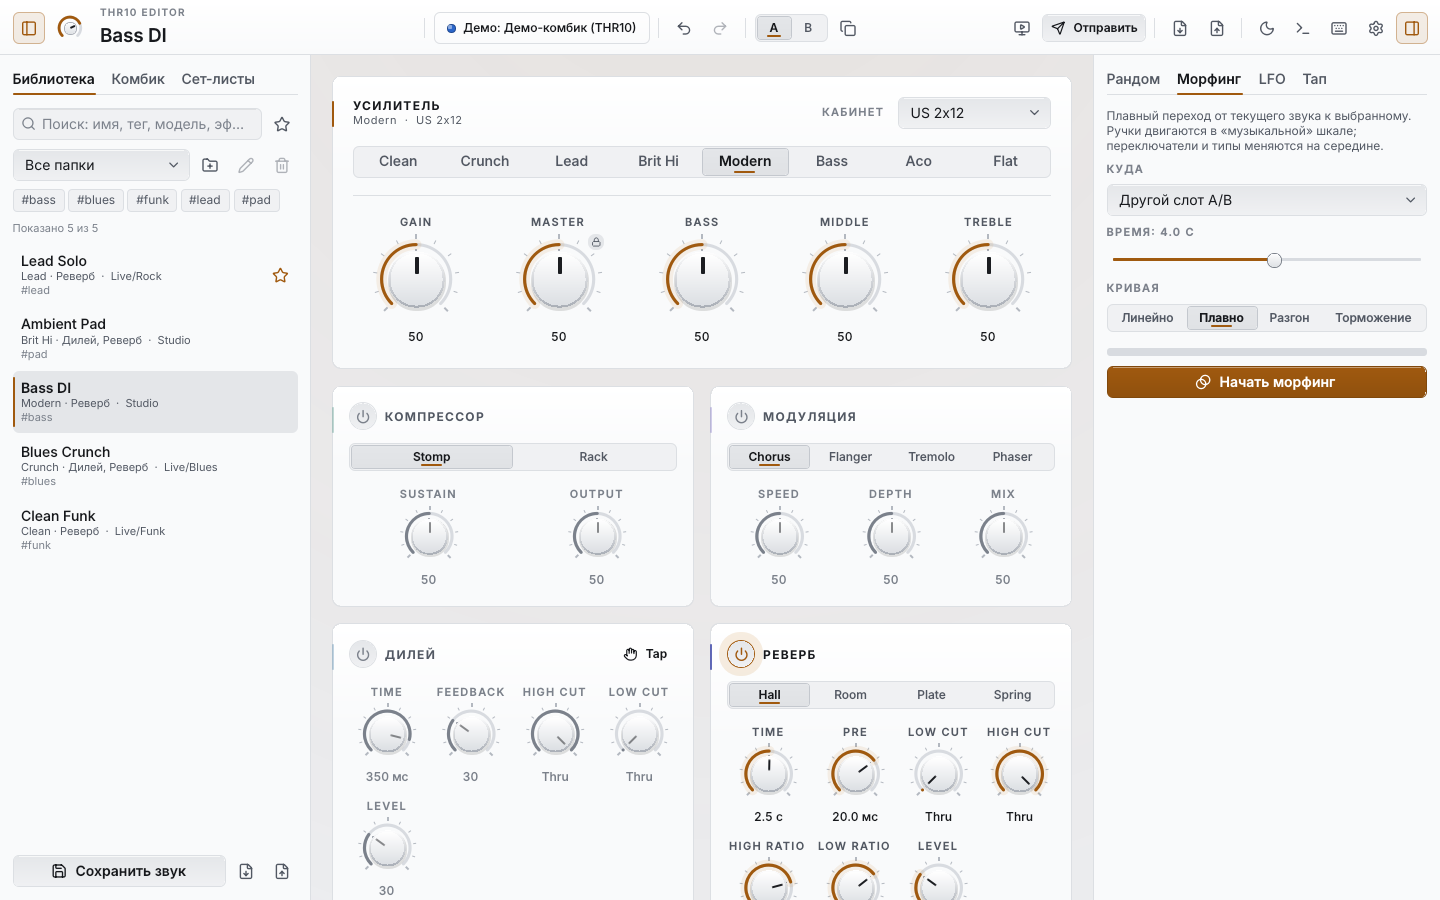
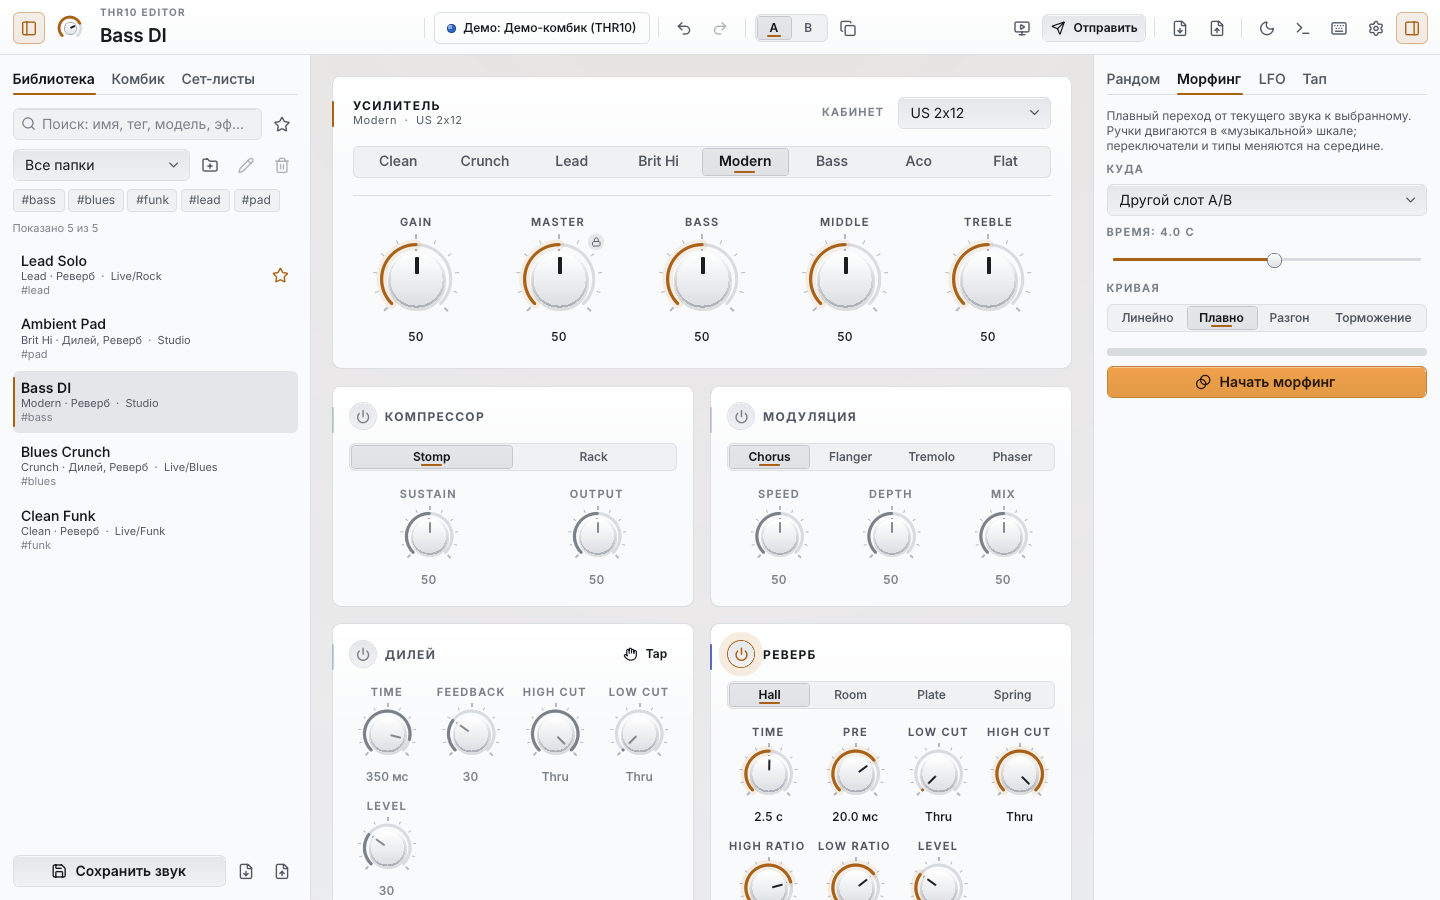
Светлая тема: мягче оранжевые кнопки через токены accentFill (версия 1.2.0)
- Токены accentFill/accentFillHover/accentFillText для залитых кнопок и
  переключателей; светлая заливка #F0A24A с тёмным текстом (8,1:1).
- Акцент для текста и линий в светлой теме чуть светлее (#AA6015, 4,6:1).
- Тёмная тема без изменений (новые токены равны прежним, тест).
- Тесты контраста; DESIGN.md, PROGRESS.md, HARDWARE_TEST.md, скриншоты.

Claude-Session: https://claude.ai/code/session_019TGBGofe5s1USwTWSDewVb

Changed region(s): [[0.75, 0.4044, 1.0, 0.4667]]

diff --git a/thr10editor/ui/qml/components/AppButton.qml b/thr10editor/ui/qml/components/AppButton.qml
@@ -23,7 +23,7 @@ Button {
 
     readonly property bool primary: variant === "primary"
     readonly property color fg: !enabled ? Theme.c.textFaint
-                               : primary ? Theme.c.accentText
+                               : primary ? Theme.c.accentFillText
                                : variant === "danger" ? Theme.c.danger
                                : checked ? Theme.c.accent
                                : Theme.c.text
@@ -36,20 +36,20 @@ Button {
         radius: Theme.radius.md
         opacity: root.enabled ? 1 : 0.55
         border.width: root.variant === "ghost" ? 0 : 1
-        border.color: root.primary ? Qt.darker(Theme.c.accent, 1.25)
+        border.color: root.primary ? Qt.darker(Theme.c.accentFill, 1.25)
                     : root.checked ? Theme.c.accent
                     : root.variant === "danger" ? Theme.c.danger
                     : root.hovered ? Theme.c.borderStrong : Theme.c.border
         gradient: Gradient {
             GradientStop {
                 position: 0.0
-                color: root.primary ? (root.hovered ? Theme.c.accentHover : Theme.c.accent)
+                color: root.primary ? (root.hovered ? Theme.c.accentFillHover : Theme.c.accentFill)
                      : root.variant === "ghost" ? (root.down ? Theme.c.surface3 : root.hovered ? Theme.c.surface2 : "transparent")
                      : (root.down ? Theme.c.surface2 : Theme.c.surface3)
             }
             GradientStop {
                 position: 1.0
-                color: root.primary ? Qt.darker(root.hovered ? Theme.c.accentHover : Theme.c.accent, 1.12)
+                color: root.primary ? Qt.darker(root.hovered ? Theme.c.accentFillHover : Theme.c.accentFill, 1.06)
                      : root.variant === "ghost" ? (root.down ? Theme.c.surface3 : root.hovered ? Theme.c.surface2 : "transparent")
                      : (root.down ? Theme.c.surface2 : root.hovered ? Theme.c.surface3 : Theme.c.surface2)
             }

diff --git a/thr10editor/ui/qml/components/ToggleSwitch.qml b/thr10editor/ui/qml/components/ToggleSwitch.qml
@@ -5,7 +5,7 @@ import THR10
 // Переключатель вкл/выкл (настройки, опции): сдержанная дорожка, объёмный бегунок.
 AbstractButton {
     id: root
-    property color accent: Theme.c.accent
+    property color accent: Theme.c.accentFill
     checkable: true
     focusPolicy: Qt.StrongFocus
     implicitWidth: Theme.size.control * 1.1

diff --git a/tests/test_theme.py b/tests/test_theme.py
@@ -80,3 +80,23 @@ def test_theme_provider_qt():
     assert seen.count("c") == 1 and seen.count("m") >= 2
     assert t.alpha("accent", 0.5).alphaF() == pytest.approx(0.5, abs=0.01)
     del app
+
+
+@pytest.mark.parametrize("mode", list(THEMES))
+def test_filled_accent_buttons_readable(mode):
+    """Текст на оранжевых (залитых) кнопках — не ниже 4,5:1 (WCAG AA)."""
+    c = THEMES[mode]
+    assert contrast(c["accentFillText"], c["accentFill"]) >= 4.5
+    assert contrast(c["accentFillText"], c["accentFillHover"]) >= 4.5
+
+
+def test_light_fill_is_lighter_and_dark_theme_unchanged():
+    from thr10editor.ui.theme import luminance
+
+    light, dark = THEMES["light"], THEMES["dark"]
+    # светлая тема: заливка кнопок заметно светлее прежнего #A0590E и светлее акцента-текста
+    assert luminance(light["accentFill"]) > luminance("#A0590E") * 2
+    assert luminance(light["accent"]) > luminance("#A0590E")
+    # тёмная тема: залитые кнопки выглядят как раньше
+    assert (dark["accentFill"], dark["accentFillHover"], dark["accentFillText"]) == (
+        dark["accent"], dark["accentHover"], dark["accentText"]) == ("#E9A23B", "#F2B35A", "#1A1206")

diff --git a/thr10editor/__init__.py b/thr10editor/__init__.py
@@ -8,6 +8,6 @@
     ui        — QML-интерфейс на PySide6.
 """
 
-__version__ = "1.1.0"
+__version__ = "1.2.0"
 APP_NAME = "THR10 Editor"
 APP_ID = "THR10Editor"

diff --git a/docs/DESIGN.md b/docs/DESIGN.md
@@ -44,7 +44,8 @@
 | `border` / `borderStrong` | разделители / рамки при наведении | `#23262C` / `#30343B` | `#DCDFE3` / `#C4C8CE` |
 | `highlight` | блик по верхней кромке | белый 5 % | белый 70 % |
 | `text` / `textMuted` / `textFaint` | основной / вторичный / подсказки | `#E8EAED` / `#9AA1AB` / `#6E757F` | `#16181C` / `#525863` / `#7B818B` |
-| `accent` / `accentHover` / `accentText` | акцент и текст на нём | `#E9A23B` / `#F2B35A` / `#1A1206` | `#A0590E` / `#8A4C0B` / `#FFFFFF` |
+| `accent` / `accentHover` / `accentText` | акцент для текста и тонких линий (дуги, риски, подчёркивания) | `#E9A23B` / `#F2B35A` / `#1A1206` | `#AA6015` / `#94520F` / `#FFFFFF` |
+| `accentFill` / `accentFillHover` / `accentFillText` | залитые оранжевые элементы: главная кнопка, включённый переключатель | `#E9A23B` / `#F2B35A` / `#1A1206` (как `accent`) | `#F0A24A` / `#E8963A` / `#2A1804` |
 | `accentSoft` / `glow` | подложка выбранного / свечение | | |
 | `knobFaceTop` / `knobFaceBottom` | градиент лицевой части ручки | `#2B2F36` → `#15171B` | `#FFFFFF` → `#DCDFE3` |
 | `knobBevel` / `knobRim` | фаска (свет сверху → тень снизу) | | |
@@ -54,7 +55,12 @@
 
 Пороги контраста (тест): `text` ≥ 7:1, `textMuted` ≥ 4,5:1 на всех
 поверхностях, `textFaint` ≥ 3:1, `accentText` на `accent` ≥ 4,5:1, акцент,
-статусы и цвета групп ≥ 3:1.
+статусы и цвета групп ≥ 3:1, `accentFillText` на `accentFill` (и hover) ≥ 4,5:1.
+
+Почему два акцента в светлой теме (с версии 1.2): светлая мягкая заливка
+кнопок с белым текстом не дотягивает до 4,5:1, поэтому на залитых кнопках
+текст тёмный (`accentFillText`), а для текста и тонких линий на светлом фоне
+остаётся более насыщенный `accent`. В тёмной теме оба набора совпадают.
 
 ### Типографика
 

diff --git a/docs/HARDWARE_TEST.md b/docs/HARDWARE_TEST.md
@@ -121,6 +121,17 @@ Ratio (×0,1) и подписи Ratio компрессора Rack.
 | 5.8 | LFO на Treble, 0,5 Гц, глубина 50 % | тембр медленно «плавает»; «Остановить» возвращает значение | |
 | 5.9 | LFO на трёх параметрах сразу | нет задержек при ручной правке других ручек | |
 
+### 5.1. Исправления версии 1.2
+
+| # | Проверка | Ожидается | Результат |
+|---|----------|-----------|-----------|
+| 5.10 | Рандомайзер несколько раз | меняются и ручки, и вкл/выкл блоков, и модель/тип; параметры с замком (панель «Рандом») — нет | |
+| 5.11 | «Сохранить звук» дважды подряд с правкой между | два разных пресета, первый не перезаписан, звук не изменился | |
+| 5.12 | В имени пресета/поиске набрать текст с пробелом, B, T, стрелками | A/B, тап-темп, ручки не реагируют; клик мимо поля сохраняет текст | |
+| 5.13 | Сет-лист → «Следующий» → не нажимать педаль → Esc / клик / та же кнопка | ожидание отменяется, привязка прежняя | |
+| 5.14 | Сцена: пробел, стрелки, PgUp/PgDn, Esc | переключение треков, выход | |
+| 5.15 | Трек: строй, аккорды, фон (JPG) → сцена | строй и аккорды крупно, фон на весь экран с затемнением | |
+
 ## 6. Окно и интерфейс
 
 | # | Проверка | Результат |

diff --git a/docs/PROGRESS.md b/docs/PROGRESS.md
@@ -281,6 +281,13 @@
    Тесты: модель (старый формат, сохранение), бэкенд (копирование, замена,
    удаление, отказ для не-картинок), сценарий на настоящем окне (фокус на
    кнопке → пробел/стрелки/PgDn/PgUp/Esc, аккорды/строй/фон на экране).
+6. **Светлая тема: мягче оранжевые кнопки.** Новые токены `accentFill`,
+   `accentFillHover`, `accentFillText` (главная кнопка, включённый
+   переключатель). Светлая тема: заливка `#F0A24A` (было `#A0590E`), текст на
+   ней тёмный `#2A1804` — контраст 8,1:1 (hover 7,2:1); акцент для текста и
+   линий чуть светлее — `#AA6015` (4,6:1 на поверхности). Тёмная тема: новые
+   токены равны прежним значениям — визуально без изменений (проверяется
+   тестом). Версия 1.2.0.
 
 ## Итог: что не подтверждено на железе
 
